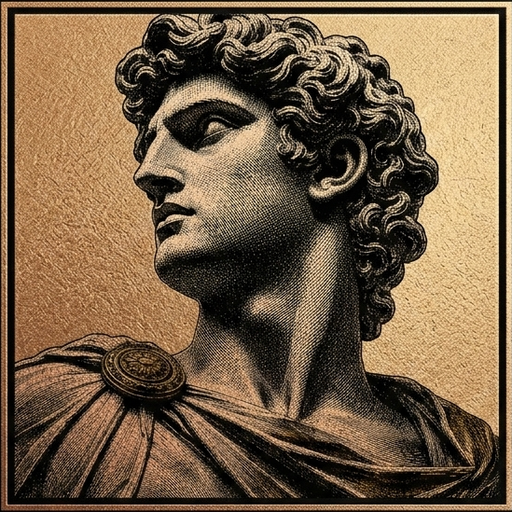
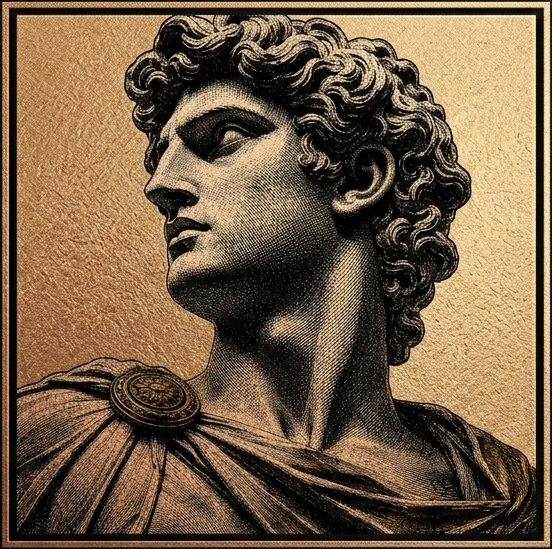
feat: nova aba Softwares com KodaGrid (R$ 779,00) — link de compra na Hotmart

diff --git a/index.html b/index.html
@@ -108,6 +108,7 @@
     <div class="platform-tabs" role="tablist" aria-label="Conteúdos principais">
       <button class="platform-tab" data-target="biblioteca" role="tab" aria-selected="false" aria-controls="panel-biblioteca" id="tab-biblioteca">Biblioteca</button>
       <button class="platform-tab active" data-target="diagnostico" role="tab" aria-selected="true" aria-controls="panel-diagnostico" id="tab-diagnostico">Diagnóstico</button>
+      <button class="platform-tab" data-target="softwares" role="tab" aria-selected="false" aria-controls="panel-softwares" id="tab-softwares">Softwares</button>
     </div>
   </div>
 </section>
@@ -210,6 +211,33 @@
         <p style="margin-top:16px;color:var(--ink-dim);font-size:.78rem;text-align:center;letter-spacing:.04em">KODAROS · Automação · Marketing · Autoridade Digital</p>
       </section>
     </div>
+  </div>
+</section>
+
+<!-- SOFTWARES -->
+<section class="section softwares platform-panel" id="panel-softwares" role="tabpanel" aria-labelledby="tab-softwares" hidden>
+  <div class="container">
+    <div class="section-header reveal">
+      <span class="section-kicker">Softwares</span>
+      <h2 class="section-title">Programas de desktop da KODAROS</h2>
+      <p class="section-sub">Softwares completos para Windows — instale, use offline e trabalhe como um profissional.</p>
+    </div>
+    <article class="software-card reveal">
+      <div class="software-cover"><img src="kodagrid-capa.png" alt="KodaGrid — Construtor de Planilhas com Fórmulas" width="270" height="360" loading="lazy"></div>
+      <div class="software-body">
+        <span class="ebook-badge">Software · Windows</span>
+        <h3 class="ebook-title">KodaGrid — Construtor de Planilhas com Fórmulas</h3>
+        <p class="ebook-desc">Monte planilhas profissionais de Excel sem precisar dominar fórmulas: templates prontos, colunas com cores, listas suspensas, fórmulas automáticas, preview exato e exportação .xlsx. 100% offline, sem IA.</p>
+        <ul class="software-feats">
+          <li>13 templates prontos: fluxo de caixa, precificação, estoque, comissões e mais</li>
+          <li>Fórmulas automáticas com preview exato antes de gerar o arquivo</li>
+          <li>Exporta .xlsx com cabeçalhos coloridos, bordas, filtros e linha de total</li>
+          <li>100% offline · Windows · Suporte: kodaros01@gmail.com</li>
+        </ul>
+        <div class="ebook-price"><span class="now">R$ 779,00</span></div>
+        <a href="https://pay.hotmart.com/H107355805V?utm_source=kodaros_plataforma&utm_medium=site&utm_campaign=softwares" target="_blank" rel="noopener" class="btn btn-aurea ebook-cta">Comprar na Hotmart</a>
+      </div>
+    </article>
   </div>
 </section>
 

diff --git a/style.css b/style.css
@@ -350,6 +350,32 @@ ul{list-style:none}
 .ebook-card.placeholder{align-items:center;justify-content:center;text-align:center;min-height:360px;border-style:dashed;background:#FDFBF7}
 .ebook-card.placeholder .ebook-body{align-items:center}
 
+/* SOFTWARES — card horizontal */
+.software-card{
+  background:#fff;border:1px solid rgba(0,0,0,0.07);border-radius:2px;overflow:hidden;
+  display:grid;grid-template-columns:280px 1fr;max-width:880px;margin:0 auto;position:relative;
+  transition:border-color .2s ease, box-shadow .2s ease, transform .2s var(--ease-expo);
+}
+.software-card::before{content:'';position:absolute;top:0;left:0;right:0;height:2px;background:var(--aurea);opacity:0;transition:opacity .2s ease;z-index:1}
+.software-card:hover{border-color:rgba(212,175,106,0.35);box-shadow:0 12px 32px rgba(0,0,0,0.08);transform:translateY(-3px)}
+.software-card:hover::before{opacity:1}
+.software-cover{background:#0A0A0C;display:flex;align-items:center;justify-content:center;overflow:hidden}
+.software-cover img{width:100%;height:100%;object-fit:cover;transition:transform .5s var(--ease-expo)}
+.software-card:hover .software-cover img{transform:scale(1.03)}
+.software-body{padding:26px 28px;display:flex;flex-direction:column;gap:10px}
+.software-body .ebook-badge{align-self:flex-start}
+.software-body .ebook-title{font-size:1.5rem}
+.software-feats{list-style:none;display:flex;flex-direction:column;gap:7px;margin:4px 0 2px;padding:0}
+.software-feats li{position:relative;padding-left:20px;font-size:.86rem;color:#6B6560;line-height:1.5}
+.software-feats li::before{content:'—';position:absolute;left:0;color:var(--aurea-deep,#B08D4A);font-weight:700}
+.software-body .ebook-cta{width:auto;align-self:flex-start;padding:13px 26px}
+@media(max-width:720px){
+  .software-card{grid-template-columns:1fr}
+  .software-cover{aspect-ratio:3/2}
+  .software-body{padding:20px}
+  .software-body .ebook-cta{width:100%;align-self:stretch;justify-content:center}
+}
+
 /* ---------- AGORA / FERRAMENTAS ---------- */
 .agora-head{text-align:center;margin-bottom:34px}
 .agora-toolbar{

diff --git a/script.js b/script.js
@@ -39,7 +39,7 @@ document.addEventListener('DOMContentLoaded', function(){
       a.addEventListener('click', function(e){
         const href=this.getAttribute('href'); if(href==='#') return;
         const clean=href.replace('#','');
-        if(['biblioteca','diagnostico'].includes(clean)) return; // deixa o handler das abas cuidar
+        if(['biblioteca','diagnostico','softwares'].includes(clean)) return; // deixa o handler das abas cuidar
         const t=document.querySelector(href); if(t){ e.preventDefault(); const h=nav?nav.offsetHeight:0; const p=t.getBoundingClientRect().top+window.pageYOffset-h-18; window.scrollTo({top:p,behavior:'smooth'}); }
       });
     });
@@ -195,10 +195,10 @@ function handleContact(e){
     btn.addEventListener('click', ()=>activate(btn.dataset.target));
   });
   const hash=location.hash.replace('#','');
-  if(['biblioteca','diagnostico'].includes(hash)) activate(hash);
+  if(['biblioteca','diagnostico','softwares'].includes(hash)) activate(hash);
   document.querySelectorAll('a[href^="#"]').forEach(a=>{
     const href=a.getAttribute('href').replace('#','');
-    if(['biblioteca','diagnostico'].includes(href)){
+    if(['biblioteca','diagnostico','softwares'].includes(href)){
       a.addEventListener('click', (e)=>{
         e.preventDefault();
         activate(href);
@@ -207,7 +207,7 @@ function handleContact(e){
   });
   window.addEventListener('hashchange', ()=>{
     const h=location.hash.replace('#','');
-    if(['biblioteca','diagnostico'].includes(h)) activate(h);
+    if(['biblioteca','diagnostico','softwares'].includes(h)) activate(h);
   });
 })();
 
